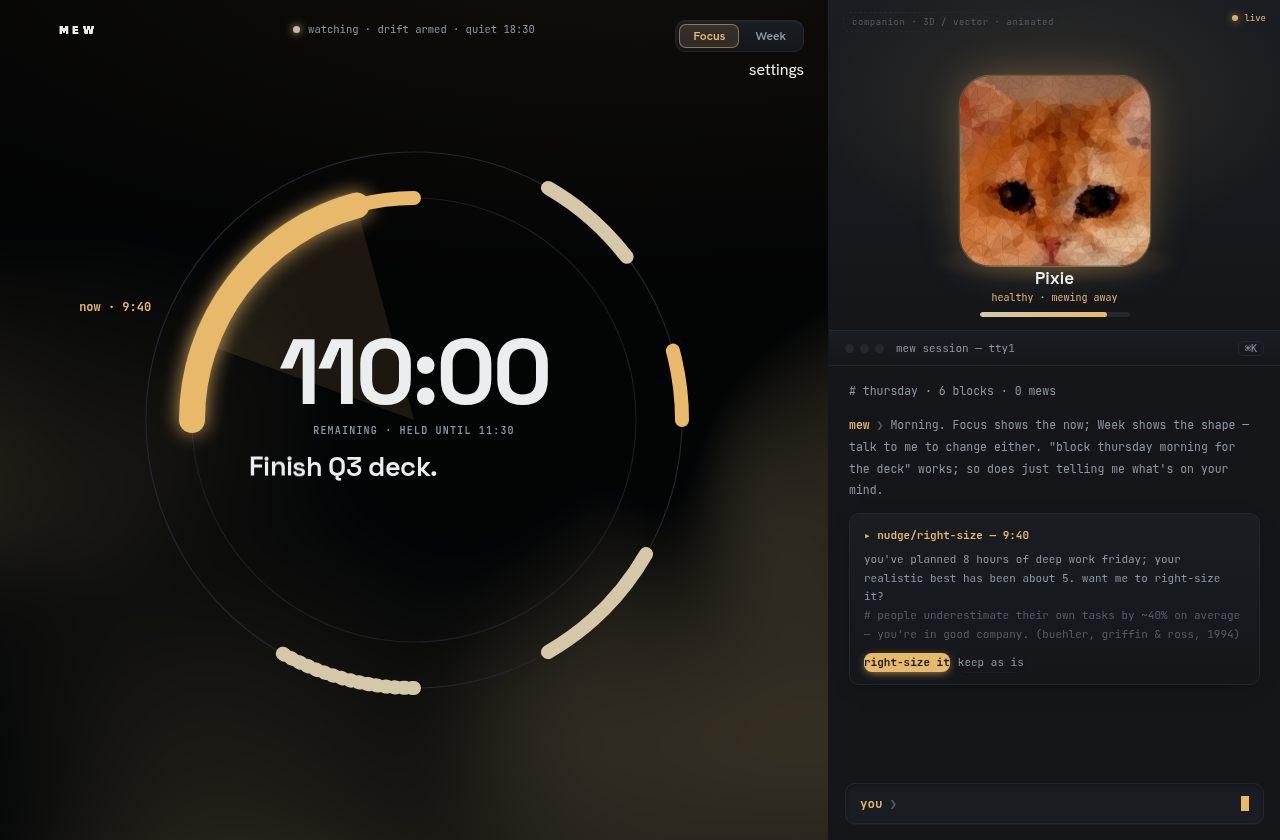
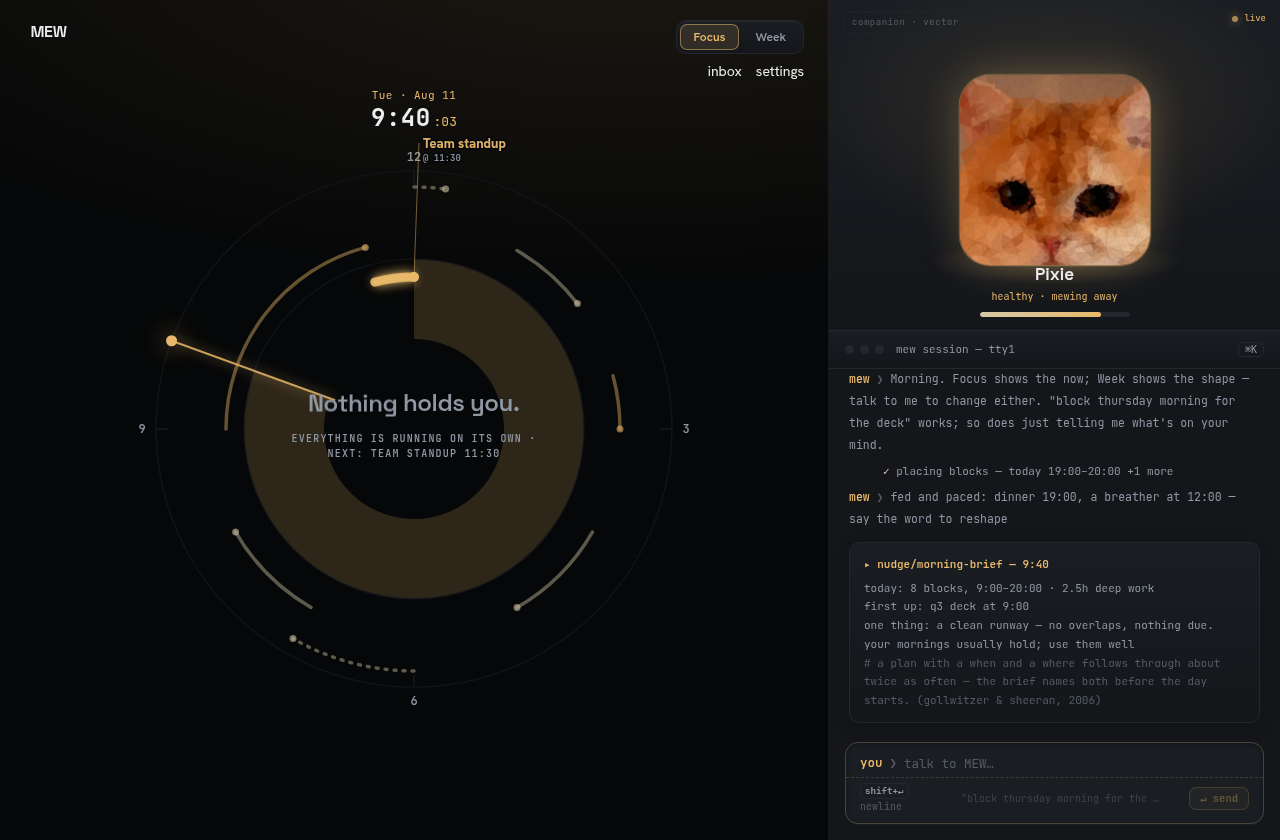
docs: current-UI hero shots (the committed canon was a UI generation old)
Regenerated both README images from the shipped build (deterministic seed,
fictional data): the dial's running-on-its-own state and a week with a
clean session showing the cited morning brief. Alt text matches what the
images now show.

Claude-Session: https://claude.ai/code/session_01Eh4NzeCUEyacXgqU7Scw4S

diff --git a/README.md b/README.md
@@ -4,10 +4,10 @@ A calm AI companion that runs your week *with* you — and keeps you well while 
 Local-first, research-backed, yours.
 
 <p align="center">
-  <img src="app/shots/1-focus-rest.png" alt="MEW's focus dial — a 12-hour ring showing the current block, time remaining, and the day's shape at rest" width="920">
+  <img src="app/shots/1-focus-rest.png" alt="MEW at rest — the focus dial holding the day: nothing demands you, the next fixed point is named, and the companion Pixie keeps watch" width="920">
 </p>
 <p align="center">
-  <img src="app/shots/4-week.png" alt="The week view — time-true columns, the live day highlighted, and MEW suggesting a right-size with its research citation in chat" width="920">
+  <img src="app/shots/4-week.png" alt="The week view — time-true columns with the live day open, rest blocks held, and the morning brief citing its research in chat" width="920">
 </p>
 
 > block thursday morning for the deck, keep friday afternoon free
